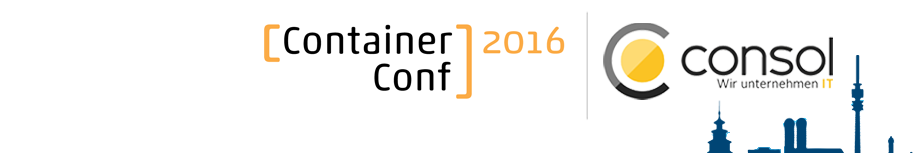
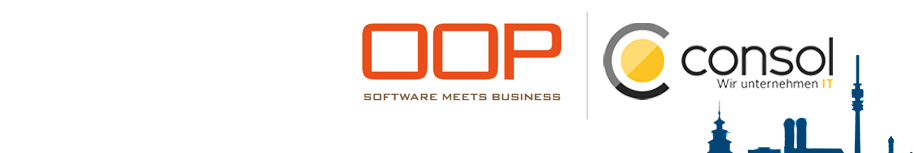
add oop changes

Changed region(s): [[0.2757, 0.1307, 0.6433, 0.6797]]

diff --git a/index.html b/index.html
@@ -175,11 +175,11 @@
                 <ul style="list-style: disc">
                     <li>Dockerfile, docker-compose.yml</li>
                 </ul>
-                <li>Starting containers <b class="coloured">on-the-fly</b></li>
-                <li>Optimized for <b class="coloured">parallel execution</b></li>
+                <li>Optimized for <b class="coloured">parallel execution</b> and <b class="coloured">cloud systems</b></li>
                 <ul style="list-style: disc">
-                    <li>Less memory overhead</li>
-                    <li>Shared Linux kernel</li>
+                    <li>Less memory and CPU overhead (shared Linux kernel)</li>
+                    <li>Starting containers on-the-fly</li>
+                    <li>Unique command line interface (orchestration tools)</li>
                 </ul>
             </ul>
         </section>
@@ -378,12 +378,16 @@ docker run -it -p 5912:5901 -p 6912:6901 consol/centos-xfce-vnc
             <h2 style="margin-bottom: 0.2em; padding-bottom: 0.3em"><img style="height: 1.5em;box-shadow: none"
                                                                          src="pics/sakuli-logo.png"/>
                 Monitoring Integration</h2>
-            <img style="margin-left: 2em;box-shadow: none" src="css/theme/pics/green_hook_list.png">
+            <div style="font-size: x-large">
+            <img style="margin-left: 1em;box-shadow: none" src="css/theme/pics/green_hook_list.png">
             Nagios
-            <img style="margin-left: 2em;box-shadow: none" src="css/theme/pics/green_hook_list.png">
+            <img style="margin-left: 1em;box-shadow: none" src="css/theme/pics/green_hook_list.png">
             OMD
-            <img style="margin-left: 2em;box-shadow: none" src="css/theme/pics/green_hook_list.png">
+            <img style="margin-left: 1em;box-shadow: none" src="css/theme/pics/green_hook_list.png">
             Incinga
+            <img style="margin-left: 1em;box-shadow: none" src="css/theme/pics/green_hook_list.png">
+            Check_MK
+            </div>
             <a target="_blank" href="https://github.com/ConSol/sakuli/blob/master/docs/index.md">
                 <img width="85%" style="border: 0; margin-top: 0.7em" src="pics/nagios.png">
             </a>
@@ -855,7 +859,7 @@ sakuli-tests/execute_all_4_monitoring.sh
                         <div style="padding-top: 0.5em"></div>
                         <a href="https://github.com/consol/sakuli-examples" target="_blank">
                             <img src="pics/github-mark.png" style="box-shadow: none; height: 35px"><b
-                                style="padding-left: 0.8em">Consol/sakuli-examples</b>
+                                style="padding-left: 0.8em">ConSol/sakuli-examples</b>
                         </a> <br/>
 
                         <div style="padding-top: 0.5em"></div>
@@ -892,7 +896,7 @@ sakuli-tests/execute_all_4_monitoring.sh
         <!--<h1 class="coloured" style="text-transform: inherit">Fragen?</h1>-->
         <!--</section>-->
         <section>
-            <h1 class="coloured" style="text-transform: inherit">Thank you Mannheim!</h1>
+            <h1 class="coloured" style="text-transform: inherit">Thank you Munich!</h1>
 
             <table style="font-size: large;margin-top: 3.5em" width="50%">
                 <tr>

diff --git a/README.md b/README.md
@@ -1,6 +1,6 @@
 ![](pics/contarinerized-salkuli-docker.png)
 
-### Presentation: [Containerized End-2-End Testing](https://rawgit.com/toschneck/presentation/container-conf/index.html#/)
+### Presentation: [Containerized End-2-End Testing](https://rawgit.com/toschneck/presentation/oop2017/index.html#/)
 <iframe width="854" height="480" src="./index.html" frameborder="0"></iframe>
 
 ### Example: [Sakuli Examples](https://github.com/consol/sakuli-examples)
